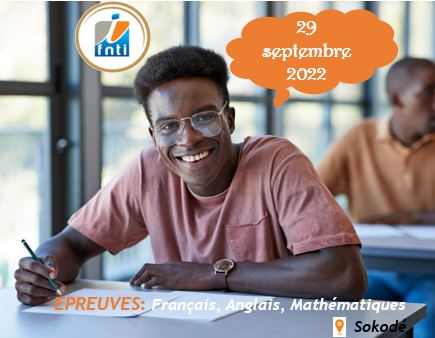
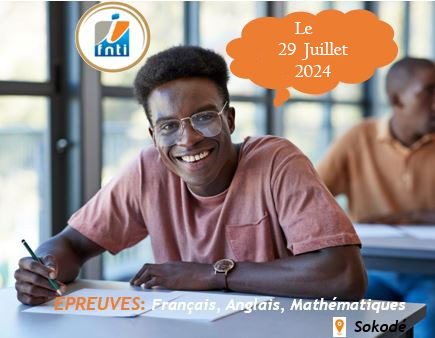
modificatin image

Changed region(s): [[0.5977, 0.0592, 0.8069, 0.2367], [0.7172, 0.2663, 0.7471, 0.2959]]

diff --git a/resources/views/vitrine/pages/home.blade.php b/resources/views/vitrine/pages/home.blade.php
@@ -19,7 +19,7 @@
                                             Sokodé</h2>
                                         <p class="lead" id="concour"> Le concours d'entrée pour l'année académique
                                             2024-2025 est
-                                            prévu le 29 juillet 2025 à 07H00 dans nos locaux. </p>
+                                            prévu le 29 juillet 2024 à 07H00 dans nos locaux. </p>
                                         <a href="https://forms.gle/wgVHzuGSSbQij73g7" class="hover-btn-new"><span>Je m’inscris</span></a>
                                         &nbsp;&nbsp;&nbsp;&nbsp;&nbsp;&nbsp;
                                         <a href="{{route("ifnti.presentation")}}" class="hover-btn-new"><span>En savoir plus</span></a>
